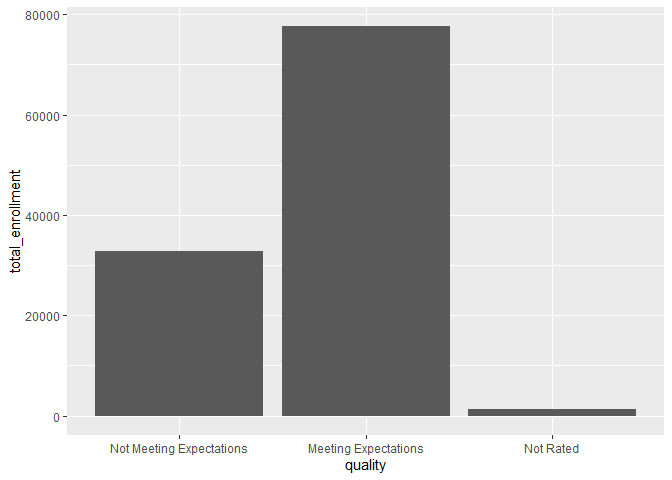
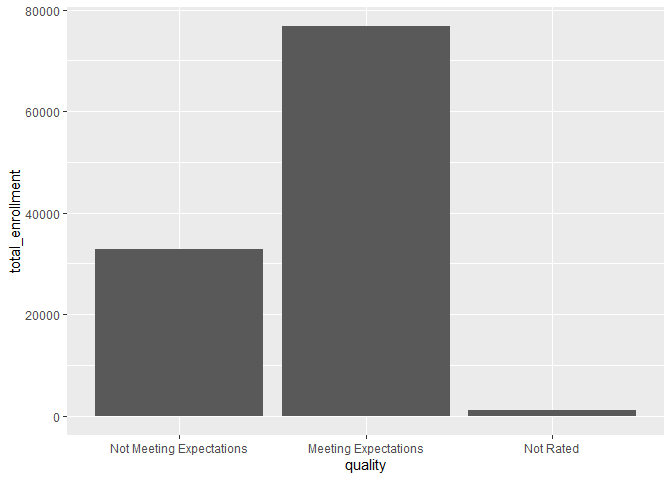
Updating Readme

diff --git a/README.md b/README.md
@@ -1,7 +1,7 @@
 Wisconsin K12 School Data
 ================
 Spencer Schien
-2020-01-06
+2020-02-03
 
 # Introduction
 
@@ -10,8 +10,8 @@ of publicly available data regarding K12 schools in Wisconsin and to
 facilitate analysis of that data.
 
 The data is organized in a relational database structure, where each
-table has a unique school identifier that facilitates joins. As of this
-writing, the following data tables are included:
+table has a unique school identifier that facilitates joins. Initially,
+the following data tables were included:
 
   - `schools` – This is a list of all schools in Wisconsin that serves
     as the unique identifier table for the relational database.
@@ -27,6 +27,11 @@ writing, the following data tables are included:
     rates cannot be calculated.
   - `report_cards` – This table contains Report Card data from all
     schools in Wisconsin.
+
+More tables have been/will be added, but information on these tables
+will be provided in vignette form, not enumerated in the list above. (As
+shown below, all tables available in `wisconsink12` will be listed upon
+loading the package.)
 
 # Installation
 
@@ -65,16 +70,25 @@ listing the tables that are available.
 # Load the package, then access the tables.
 
 library(wisconsink12)
+#> The following tables are now available:
+#> - schools
+#> - enrollment
+#> - report_cards
+#> - forward_exam
+#> - graduation
+#> - choice_counts
+#> - other_enrollment
+#> - act
 ```
 
-As the output shows, we indeed have access to the five tables listed
-above. We can inspect these tables as we would any dataframe.
+As the output shows, we indeed have access to the 8 tables listed above.
+We can inspect these tables as we would any dataframe.
 
 ``` r
 # Inspect the `schools` table
 
 str(schools)
-#> 'data.frame':    3237 obs. of  14 variables:
+#> 'data.frame':    3237 obs. of  15 variables:
 #>  $ dpi_true_id         : chr  "0000_0005" "0000_0052" "0000_0057" "0000_0070" ...
 #>  $ school_name         : chr  "Abbotsford Christian Academy" "Hillside Amish School" "Amish Parochial Schools" "Aquinas Middle" ...
 #>  $ agency_type         : chr  "Private school" "Private school" "Private school" "Private school" ...
@@ -83,7 +97,8 @@ str(schools)
 #>  $ choice_indicator    : num  0 0 0 1 1 0 1 0 1 0 ...
 #>  $ charter_indicator   : num  0 0 0 0 0 0 0 0 0 0 ...
 #>  $ last_year_open      : chr  "2018-19" "2018-19" "2018-19" "2018-19" ...
-#>  $ accurate_agency_type: chr  "Private School" "Private School" "Private School" "Private School" ...
+#>  $ accurate_agency_type: chr  "Private" "Private" "Private" "Private" ...
+#>  $ broad_agency_type   : chr  "Private" "Private" "Private" "Private" ...
 #>  $ locale_description  : chr  NA NA NA "NA" ...
 #>  $ city                : chr  NA NA NA "La Crosse" ...
 #>  $ MPCP                : num  0 0 0 0 0 0 0 0 1 0 ...
@@ -100,7 +115,8 @@ tables are available, you can access that information with the
 # `wisconsink12` package.
 
 list_tables()
-#> [1] "schools"      "enrollment"   "report_cards" "forward_exam" "graduation"
+#> [1] "schools"          "enrollment"       "report_cards"     "forward_exam"    
+#> [5] "graduation"       "choice_counts"    "other_enrollment" "act"
 ```
 
 # Most Common Uses
@@ -184,13 +200,17 @@ table(mke_rc$report_card_type, mke_rc$school_year) %>%
 
 |                           | 2015-16 | 2016-17 | 2017-18 | 2018-19 |
 | ------------------------- | ------: | ------: | ------: | ------: |
-| Private - Choice Students |       0 |     120 |     127 |     129 |
+| Private - Choice Students |       0 |     109 |     114 |     114 |
 | Public - All Students     |       0 |     176 |     178 |     180 |
 
 ## How many students are in schools that *Meet Expectations*?
 
 Now that we have our `mke_rc` table, let us ask how many students are
-enrolled\[1\] in schools that are rated *Meets Expectations* or higher.
+enrolled in schools that are rated *Meets Expectations* or higher.
+
+*Note that enrollment is a tricky number to pin down in some cases, and
+the easiest way to do this at the city-wide level is to use numbers
+included in the Report Card data release.*
 
 ``` r
 # Designate which ratings fall below 'Meeting Expectations'
@@ -228,9 +248,9 @@ meets_expecs
 #> # A tibble: 3 x 3
 #>   quality                  total_enrollment percent
 #>   <fct>                               <dbl> <chr>  
-#> 1 Not Meeting Expectations            32880 29%    
-#> 2 Meeting Expectations                77617 69%    
-#> 3 Not Rated                            1253 1%
+#> 1 Not Meeting Expectations            32834 30%    
+#> 2 Meeting Expectations                76702 69%    
+#> 3 Not Rated                            1085 1%
 
 # Visualize with bar graphs
 
@@ -246,7 +266,24 @@ receive a rating of *Meets Expectations* or higher.
 
 ## How Many Choice and Charter Schools are in Milwaukee?
 
-1.  Note that enrollment is a tricky number to pin down in some cases,
-    and the easiest way to do this at the city-wide level is to use
-    numbers included in the Report Card data release. ***Still being
-    updated…***
+The number of choice and charter schools in Milwaukee can be determined
+easily using the `report_cards` table. We use Report Card data since all
+choice and charter schools are required to have a Report Card – if we
+went off the `schools` table, we would include private schools that do
+not participate in a choice program.
+
+``` r
+mke_rc %>%
+  group_by(broad_agency_type, school_year) %>%
+  summarise(N = n()) %>%
+  pivot_wider(names_from = school_year, values_from = N) %>%
+  kable()
+```
+
+| broad\_agency\_type | 2015-16 | 2016-17 | 2017-18 | 2018-19 |
+| :------------------ | ------: | ------: | ------: | ------: |
+| District-Run        |     139 |     140 |     142 |     142 |
+| Independent Charter |      35 |      36 |      36 |      38 |
+| Private             |     107 |     109 |     114 |     114 |
+
+***Still being updated…***
